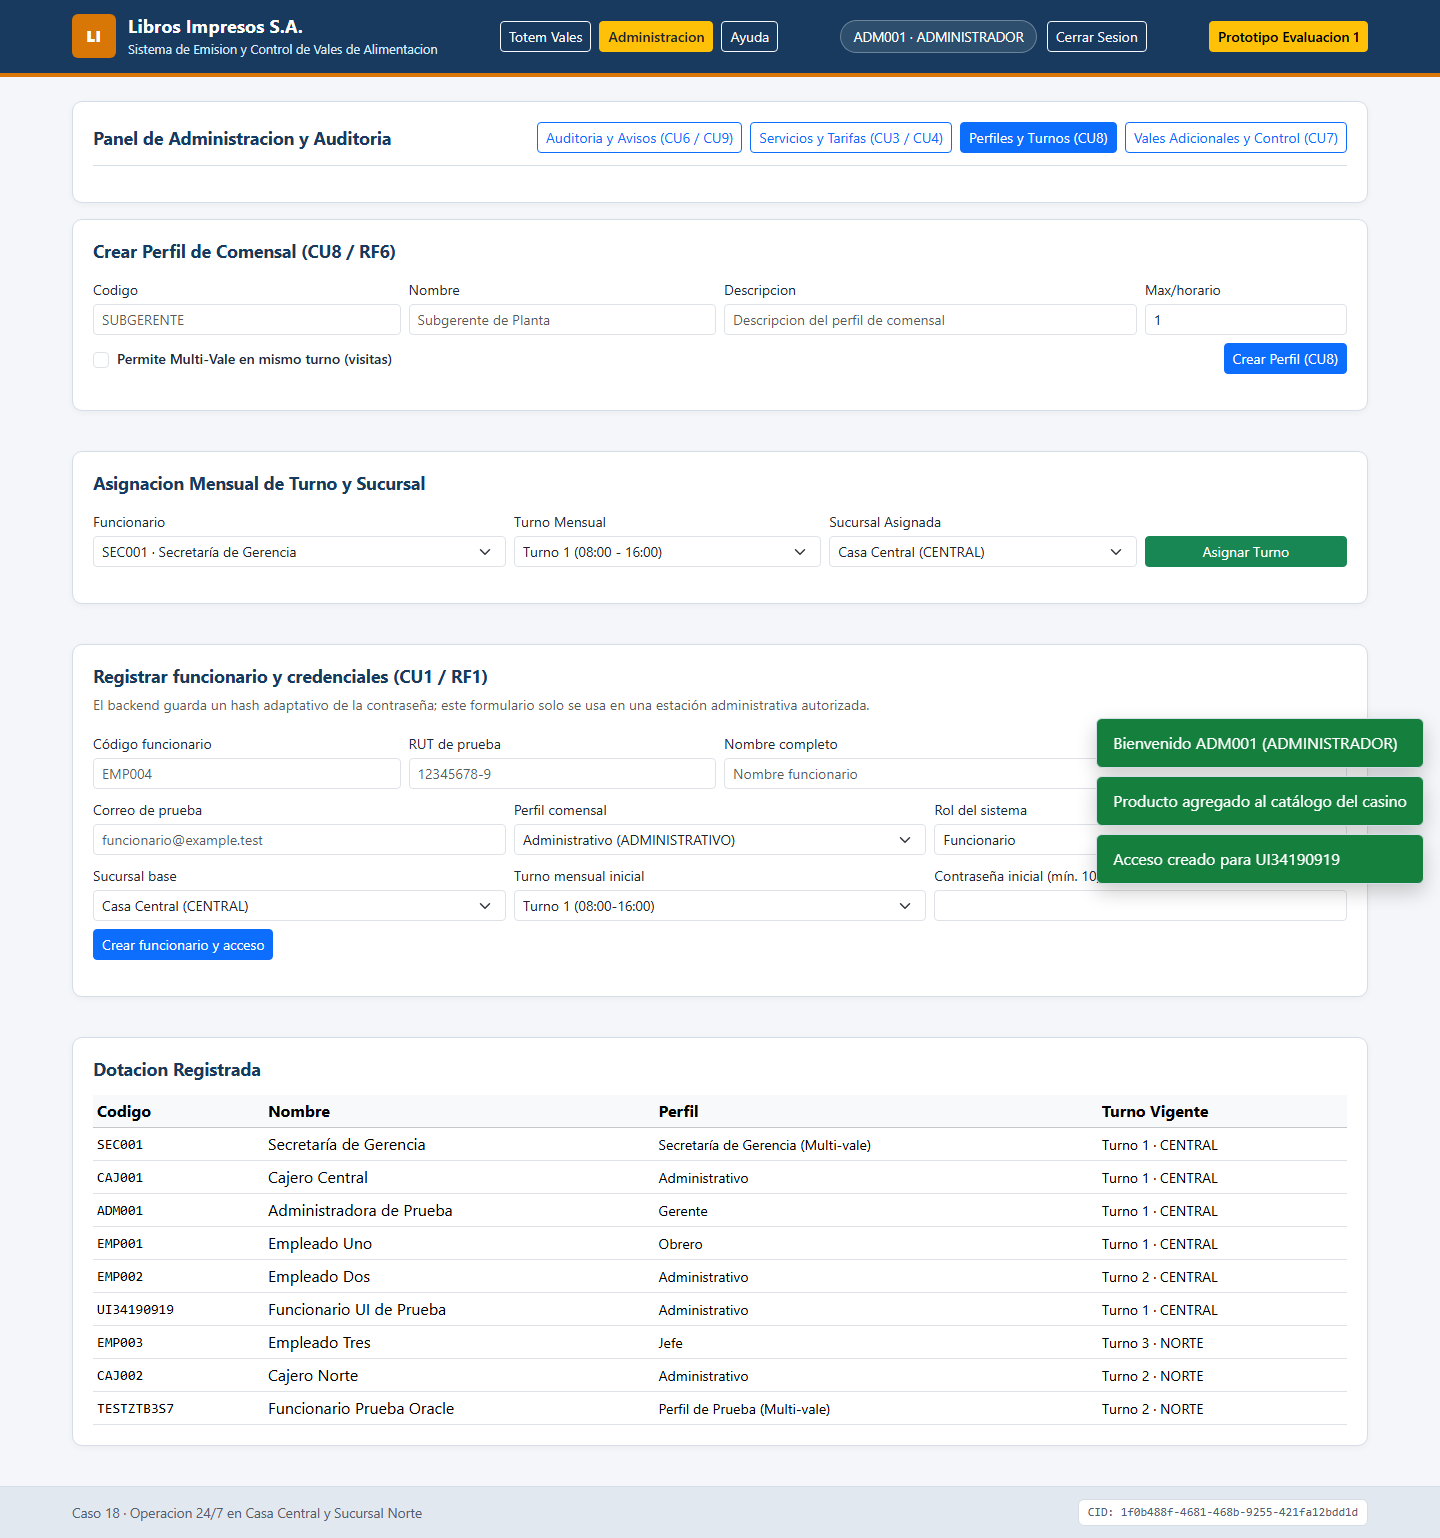
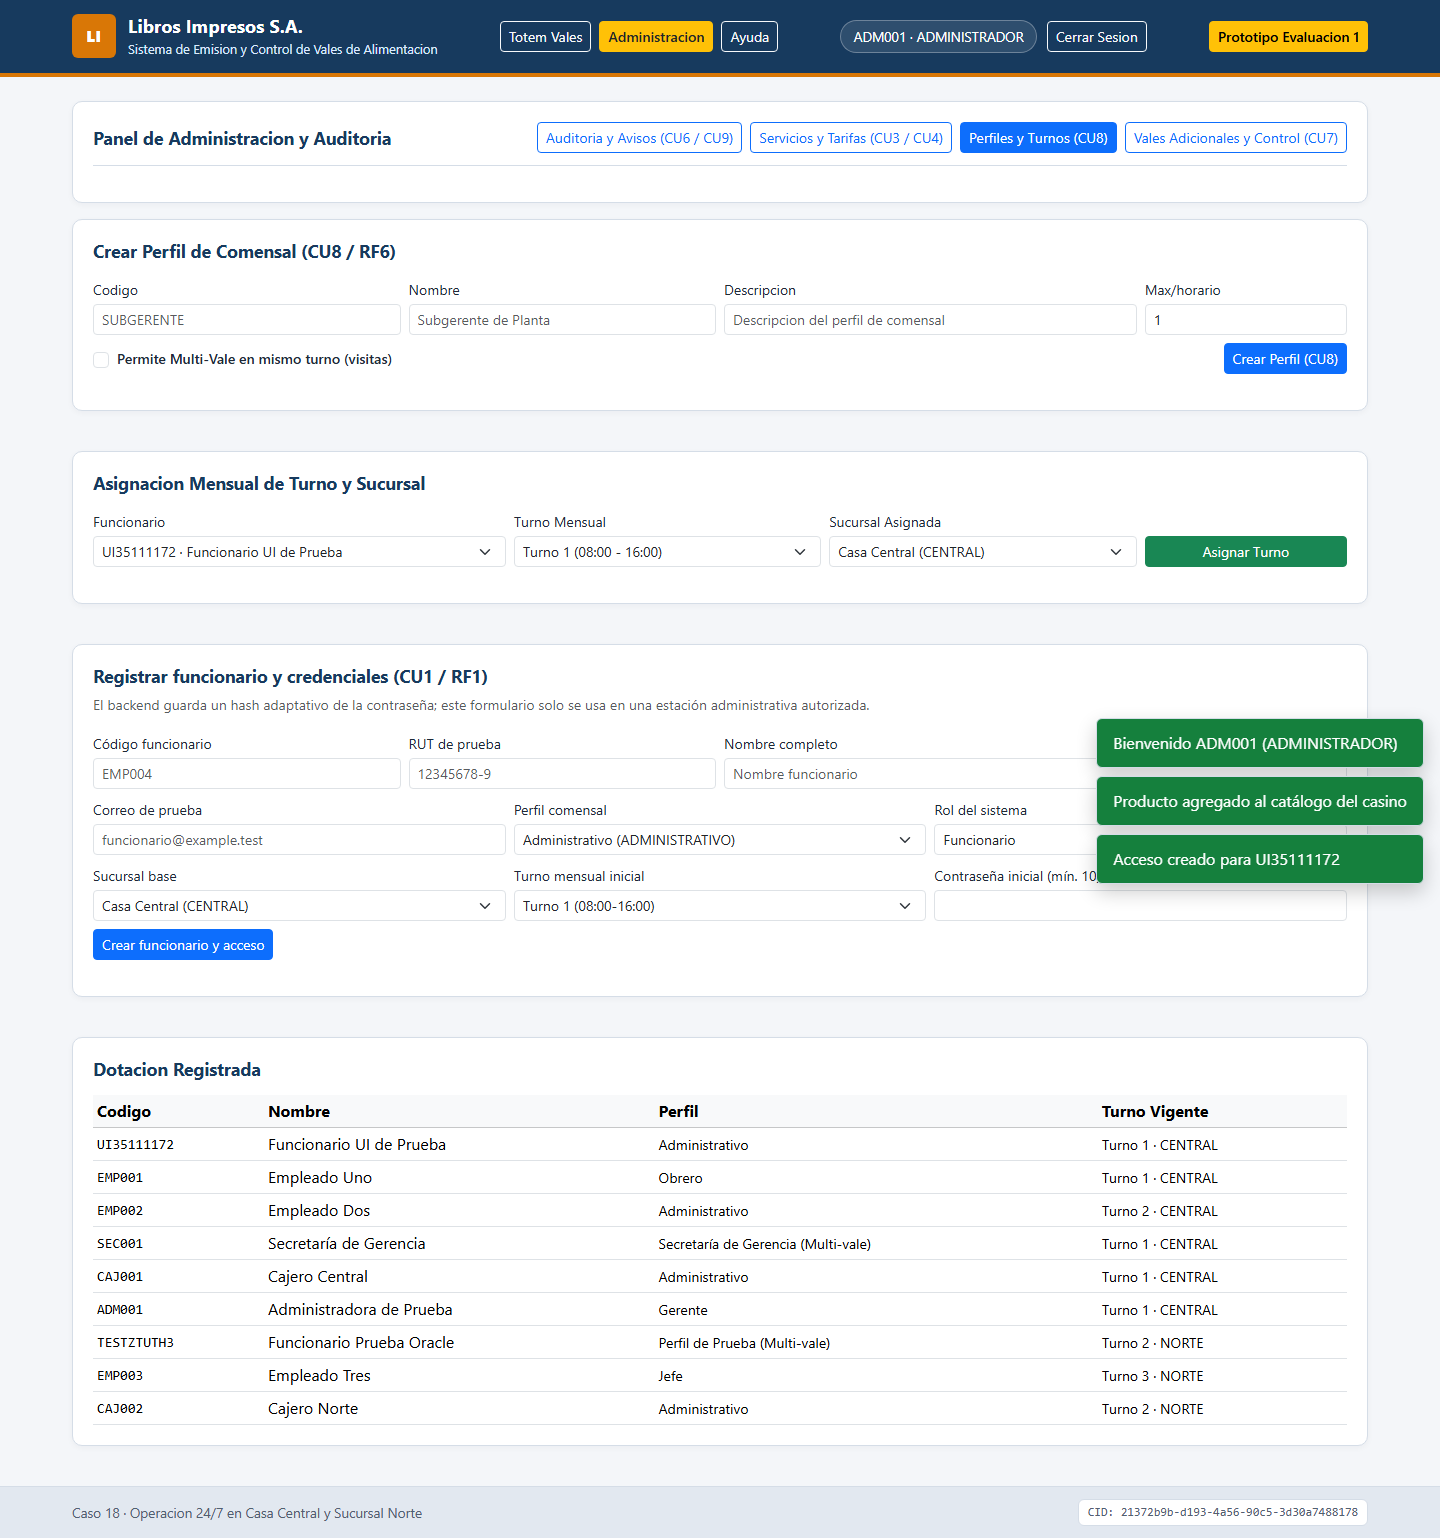
Entrega 2: endurecer integración y rotación de sesiones

diff --git a/frontend/js/api.js b/frontend/js/api.js
@@ -66,6 +66,7 @@ async function tryRefreshAccessToken() {
     saveSession({
       ...session,
       accessToken: data.accessToken,
+      refreshToken: data.refreshToken || session.refreshToken,
       user: data.user || session.user
     });
     return true;

diff --git a/backend/Libros.Api/ServiceHttp.cs b/backend/Libros.Api/ServiceHttp.cs
@@ -33,7 +33,21 @@ public sealed class ServiceHttp(IHttpClientFactory clients, IConfiguration confi
         }
         if (body is not null) request.Content = JsonContent.Create(body, options: JsonOptions);
 
-        using var response = await clients.CreateClient("internal").SendAsync(request, HttpCompletionOption.ResponseHeadersRead, ct);
+        HttpResponseMessage response;
+        try
+        {
+            response = await clients.CreateClient("internal").SendAsync(request, HttpCompletionOption.ResponseHeadersRead, ct);
+        }
+        catch (OperationCanceledException) when (!ct.IsCancellationRequested)
+        {
+            throw new DomainException(504, "UPSTREAM_TIMEOUT", $"El subsistema {service} excedió el plazo configurado.");
+        }
+        catch (HttpRequestException)
+        {
+            throw new DomainException(503, "UPSTREAM_UNAVAILABLE", $"El subsistema {service} no está disponible.");
+        }
+        using (response)
+        {
         var json = await response.Content.ReadAsStringAsync(ct);
         if (!response.IsSuccessStatusCode)
         {
@@ -58,6 +72,7 @@ public sealed class ServiceHttp(IHttpClientFactory clients, IConfiguration confi
         catch (JsonException)
         {
             throw new DomainException(502, "INVALID_UPSTREAM_RESPONSE", "La respuesta del subsistema no respeta el contrato JSON.");
+        }
         }
     }
 }

diff --git a/docs/INFORME_UNIDAD_2_BACKEND.md b/docs/INFORME_UNIDAD_2_BACKEND.md
@@ -145,7 +145,7 @@ Si la carga, el volumen de informes, el streaming o la telemetría cambian, el A
 
 La solución compila con `dotnet build backend/LibrosBackend.slnx --no-restore`; `docker compose config --quiet` valida la orquestación. La prueba reproducible está en `tests/oracle/entrega2-smoke.mjs` y se ejecuta con `tests/oracle/run-entrega2-tests.ps1` tras restablecer Oracle. Cubre consultas anónimas, login, sesiones/revocación, roles, IDOR, GraphQL, límites, creación de perfiles/funcionarios/productos/servicios, turnos, emisión normal, duplicado, canje y cálculo de pago en el servidor, avisos PL/SQL sandbox, auditoría y agregación.
 
-La corrida estable de `summary.json` con `passed=21, failed=0` está en [`evidencias/entrega-2/RUN_UNIT2_2026-11-28T02-49-46-852Z/`](evidencias/entrega-2/RUN_UNIT2_2026-11-28T02-49-46-852Z/summary.json). La vista de administración real también se recorrió desde navegador headless: creó producto y funcionario (incluyendo cuenta Auth) desde la SPA, con capturas en `evidencias/entrega-2/ui-admin-*.png` y reporte [`ui-admin-report.json`](evidencias/entrega-2/ui-admin-report.json). Estas son ejecuciones locales/emuladas con Oracle y datos ficticios; **no** prueban hardware real, SMTP entregable, WAN, cloud, biometría ni concurrencia de producción. La validación de flujos completos del tótem y caja desde navegador, escenarios de recuperación/regresión y las conclusiones por requisito se completan como parte de la Entrega 3.
+La corrida estable de `summary.json` con `passed=22, failed=0` está en [`evidencias/entrega-2/RUN_UNIT2_2026-11-28T03-05-06-867Z/`](evidencias/entrega-2/RUN_UNIT2_2026-11-28T03-05-06-867Z/summary.json). La vista de administración real también se recorrió desde navegador headless: creó producto y funcionario (incluyendo cuenta Auth) desde la SPA, con capturas en `evidencias/entrega-2/ui-admin-*.png` y reporte [`ui-admin-report.json`](evidencias/entrega-2/ui-admin-report.json). Estas son ejecuciones locales/emuladas con Oracle y datos ficticios; **no** prueban hardware real, SMTP entregable, WAN, cloud, biometría ni concurrencia de producción. La validación de flujos completos del tótem y caja desde navegador, escenarios de recuperación/regresión y las conclusiones por requisito se completan como parte de la Entrega 3.
 
 ### Limitaciones vigentes declaradas
 

diff --git a/docs/evidencias/entrega-2/README.md b/docs/evidencias/entrega-2/README.md
@@ -6,6 +6,7 @@ La prueba de integración ejecutable es `npm run test:oracle`; su runbook [`../.
 
 | Corrida | Resultado | Archivo |
 | --- | --- | --- |
+| `RUN_UNIT2_2026-11-28T03-05-06-867Z` | 22 aprobadas, 0 fallidas; Oracle API, rotación de refresh y administración desde SPA | [`summary.json`](RUN_UNIT2_2026-11-28T03-05-06-867Z/summary.json) |
 | `RUN_UNIT2_2026-11-28T02-49-46-852Z` | 21 aprobadas, 0 fallidas; API Oracle y administración desde SPA headless, deps npm audit limpias | [`summary.json`](RUN_UNIT2_2026-11-28T02-49-46-852Z/summary.json) |
 | `RUN_UNIT2_2026-11-28T02-47-13-889Z` | 21 aprobadas, 0 fallidas; API Oracle y administración desde SPA headless | [`summary.json`](RUN_UNIT2_2026-11-28T02-47-13-889Z/summary.json) |
 | `RUN_UNIT2_2026-11-28T02-38-38-776Z` | 21 aprobadas, 0 fallidas; API Oracle y administración desde SPA en Edge headless | [`summary.json`](RUN_UNIT2_2026-11-28T02-38-38-776Z/summary.json) |
